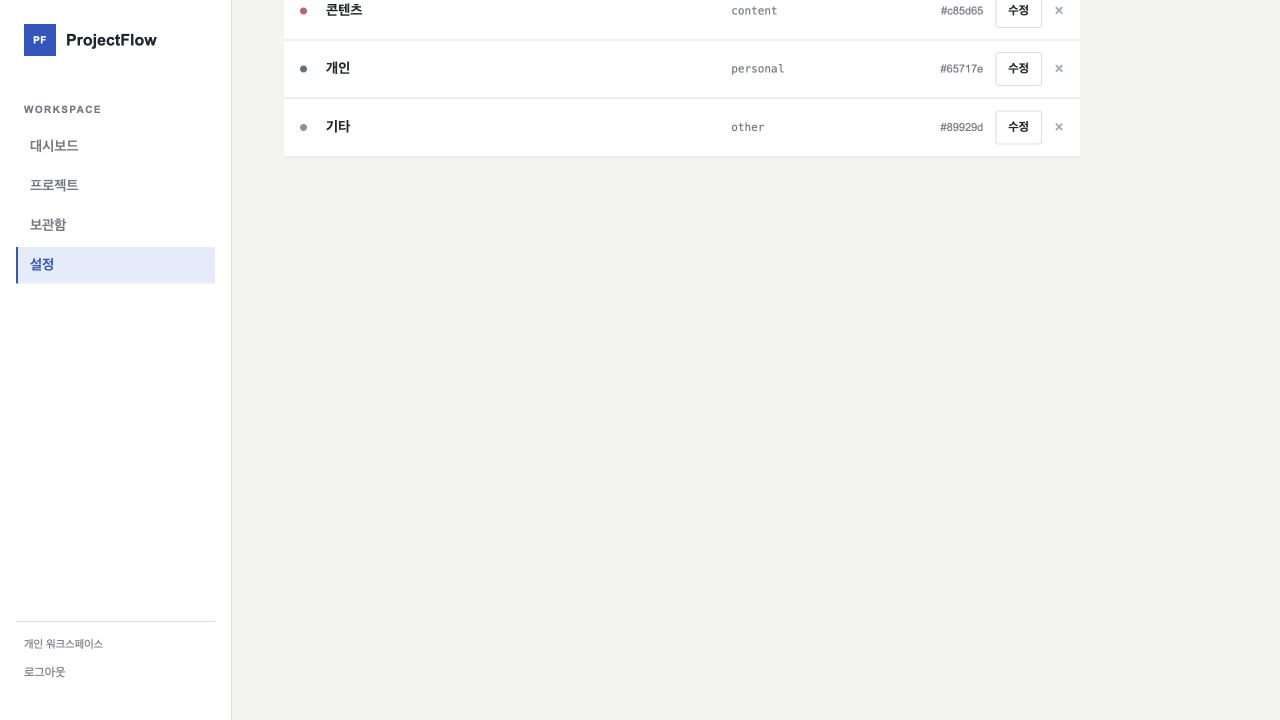
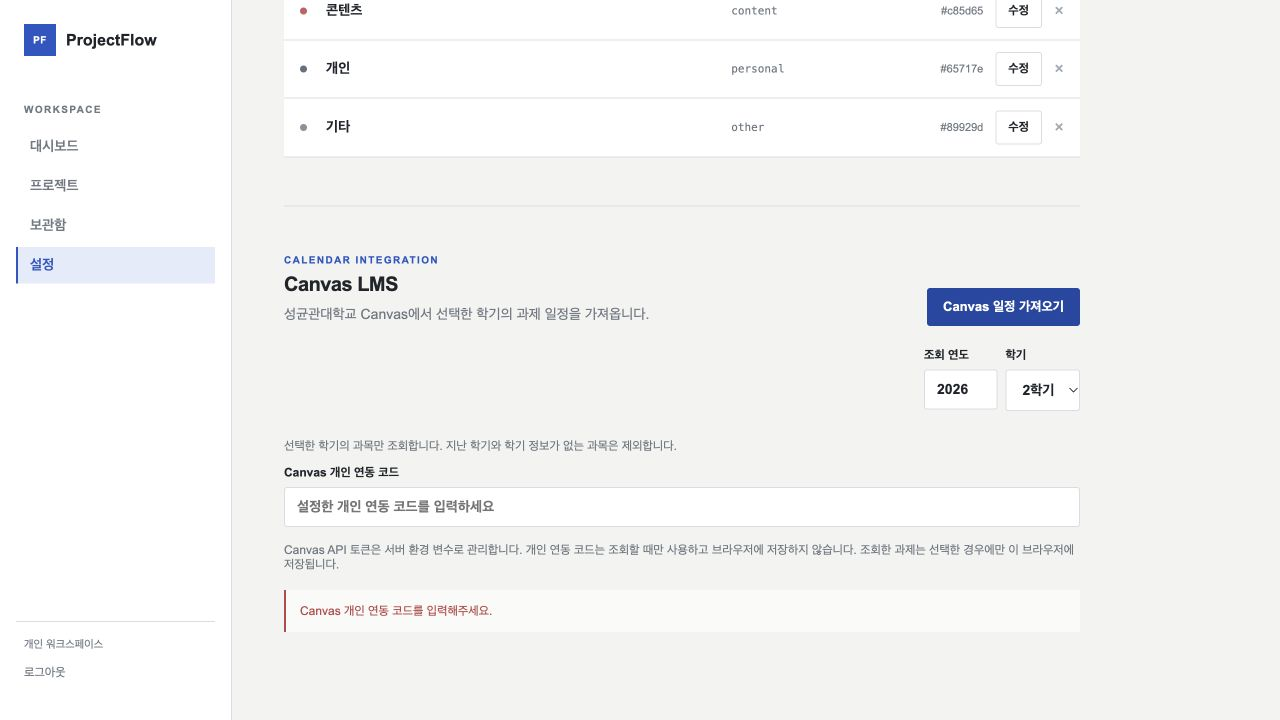
docs: record final responsive and real AI verification evidence

diff --git a/docs/verification.md b/docs/verification.md
@@ -3,13 +3,13 @@
 ## 자동 검증
 외부 AI와 Canvas API는 mock으로 대체합니다. 모델 호출 성공 증빙은 별도의 실제 화면으로 제공합니다.
 
-- Python 테스트: 입력·라우팅·AI 인증/쿼터/타임아웃/응답 검증·Canvas 학기 필터/페이지네이션/개인 접근 검증.
+- Python 테스트 30개 통과: 입력·라우팅·AI 인증/쿼터/타임아웃/응답 검증·Canvas 학기 필터/페이지네이션/개인 접근 검증.
 - JavaScript 회귀 테스트 3개: 기존 완료 작업, 프로젝트 전체 완료, 타 사용자/빈 프로젝트/지난 마감일 처리.
 - JavaScript 문법 확인: dashboard.js, insights.js, settings.js.
 
 ## 실제 배포에서 확인한 내용
 - 대시보드 → 프로젝트 → AI 분석 메뉴 이동.
-- 데스크톱 1440px과 모바일 390px에서 페이지 전체 가로 넘침 없이 표시.
+- 데스크톱 1440px·태블릿 768px·모바일 390px에서 페이지 전체 가로 넘침 없이 표시.
 - 빈 질문 안내와 키 미설정 시 API 실패 안내.
 - Codyssey 가상 키 등록·재배포 후 실제 분석 응답.
 - 목표와 시간 조건 입력 후 실제 AI 일정 추천 및 예정일 저장.
@@ -25,10 +25,18 @@
 | 모바일 대시보드 | [mobile-dashboard.jpg](screenshots/mobile-dashboard.jpg) |
 | 실제 AI 일정 추천 | [ai-schedule.jpg](screenshots/ai-schedule.jpg) |
 | 실제 AI 프로젝트 분석 | [ai-analysis.jpg](screenshots/ai-analysis.jpg) |
+| 293자 질문의 실제 AI 응답 | [ai-long-input.jpg](screenshots/ai-long-input.jpg) |
 | AI 코딩 과정에서 제시한 화면 | [starter-before.png](screenshots/starter-before.png) |
-| 학기 선택 개선 당시 Canvas UI | [canvas-semester.jpg](screenshots/canvas-semester.jpg) |
+| 현재 Canvas 학기·개인 코드 UI | [canvas-semester.jpg](screenshots/canvas-semester.jpg) |
 
-Canvas 이미지는 학기 필터를 추가하던 당시 화면입니다. 이후 보안 요구사항에 맞춰 API 토큰을 서버 환경 변수로 옮기고 입력란을 개인 연동 코드로 변경했습니다.
+Canvas 이미지는 API 토큰을 서버 환경 변수로 옮긴 현재 설정 화면입니다. 코드 입력란을 비운 상태의 안내를 촬영했습니다.
+
+## AI 입력 재현 사례
+| 입력 | 실제 확인 결과 |
+| --- | --- |
+| 정상 질문 | 요약·다음 단계·위험 대응 출력 |
+| 빈 질문 | “질문을 입력해주세요.” 안내, 모델 호출하지 않음 |
+| 293자 질문 | 새 배포에서 실제 AI 분석 응답 출력 |
 
 ## 선택 기능의 확인 범위
 Canvas의 학기 필터와 접근 제한은 mock으로 검증합니다. 서버의 CANVAS_TOKEN·CANVAS_ACCESS_CODE 등록 후 개인 과제 조회 성공은 추가 확인이 필요합니다. 이는 필수 AI 기능 검증과 분리합니다.

diff --git a/docs/submission.md b/docs/submission.md
@@ -26,6 +26,7 @@
 | ai-schedule.jpg | 실제 AI 일정 추천 |
 | ai-analysis.jpg | 실제 AI 분석 결과 |
 | starter-before.png | AI 코딩 협업 중 제시한 개선 전 화면 |
-| canvas-semester.jpg | 학기 선택 UI 개선 당시 화면 |
+| ai-long-input.jpg | 293자 질문의 실제 AI 응답 |
+| canvas-semester.jpg | 현재 학기 선택·개인 연동 코드 화면 |
 
 실제 화면 캡처와 mock 검증은 [verification.md](verification.md)에서 구분합니다. 토큰과 개인 학사 데이터는 제출 자료에 포함하지 않았습니다.
